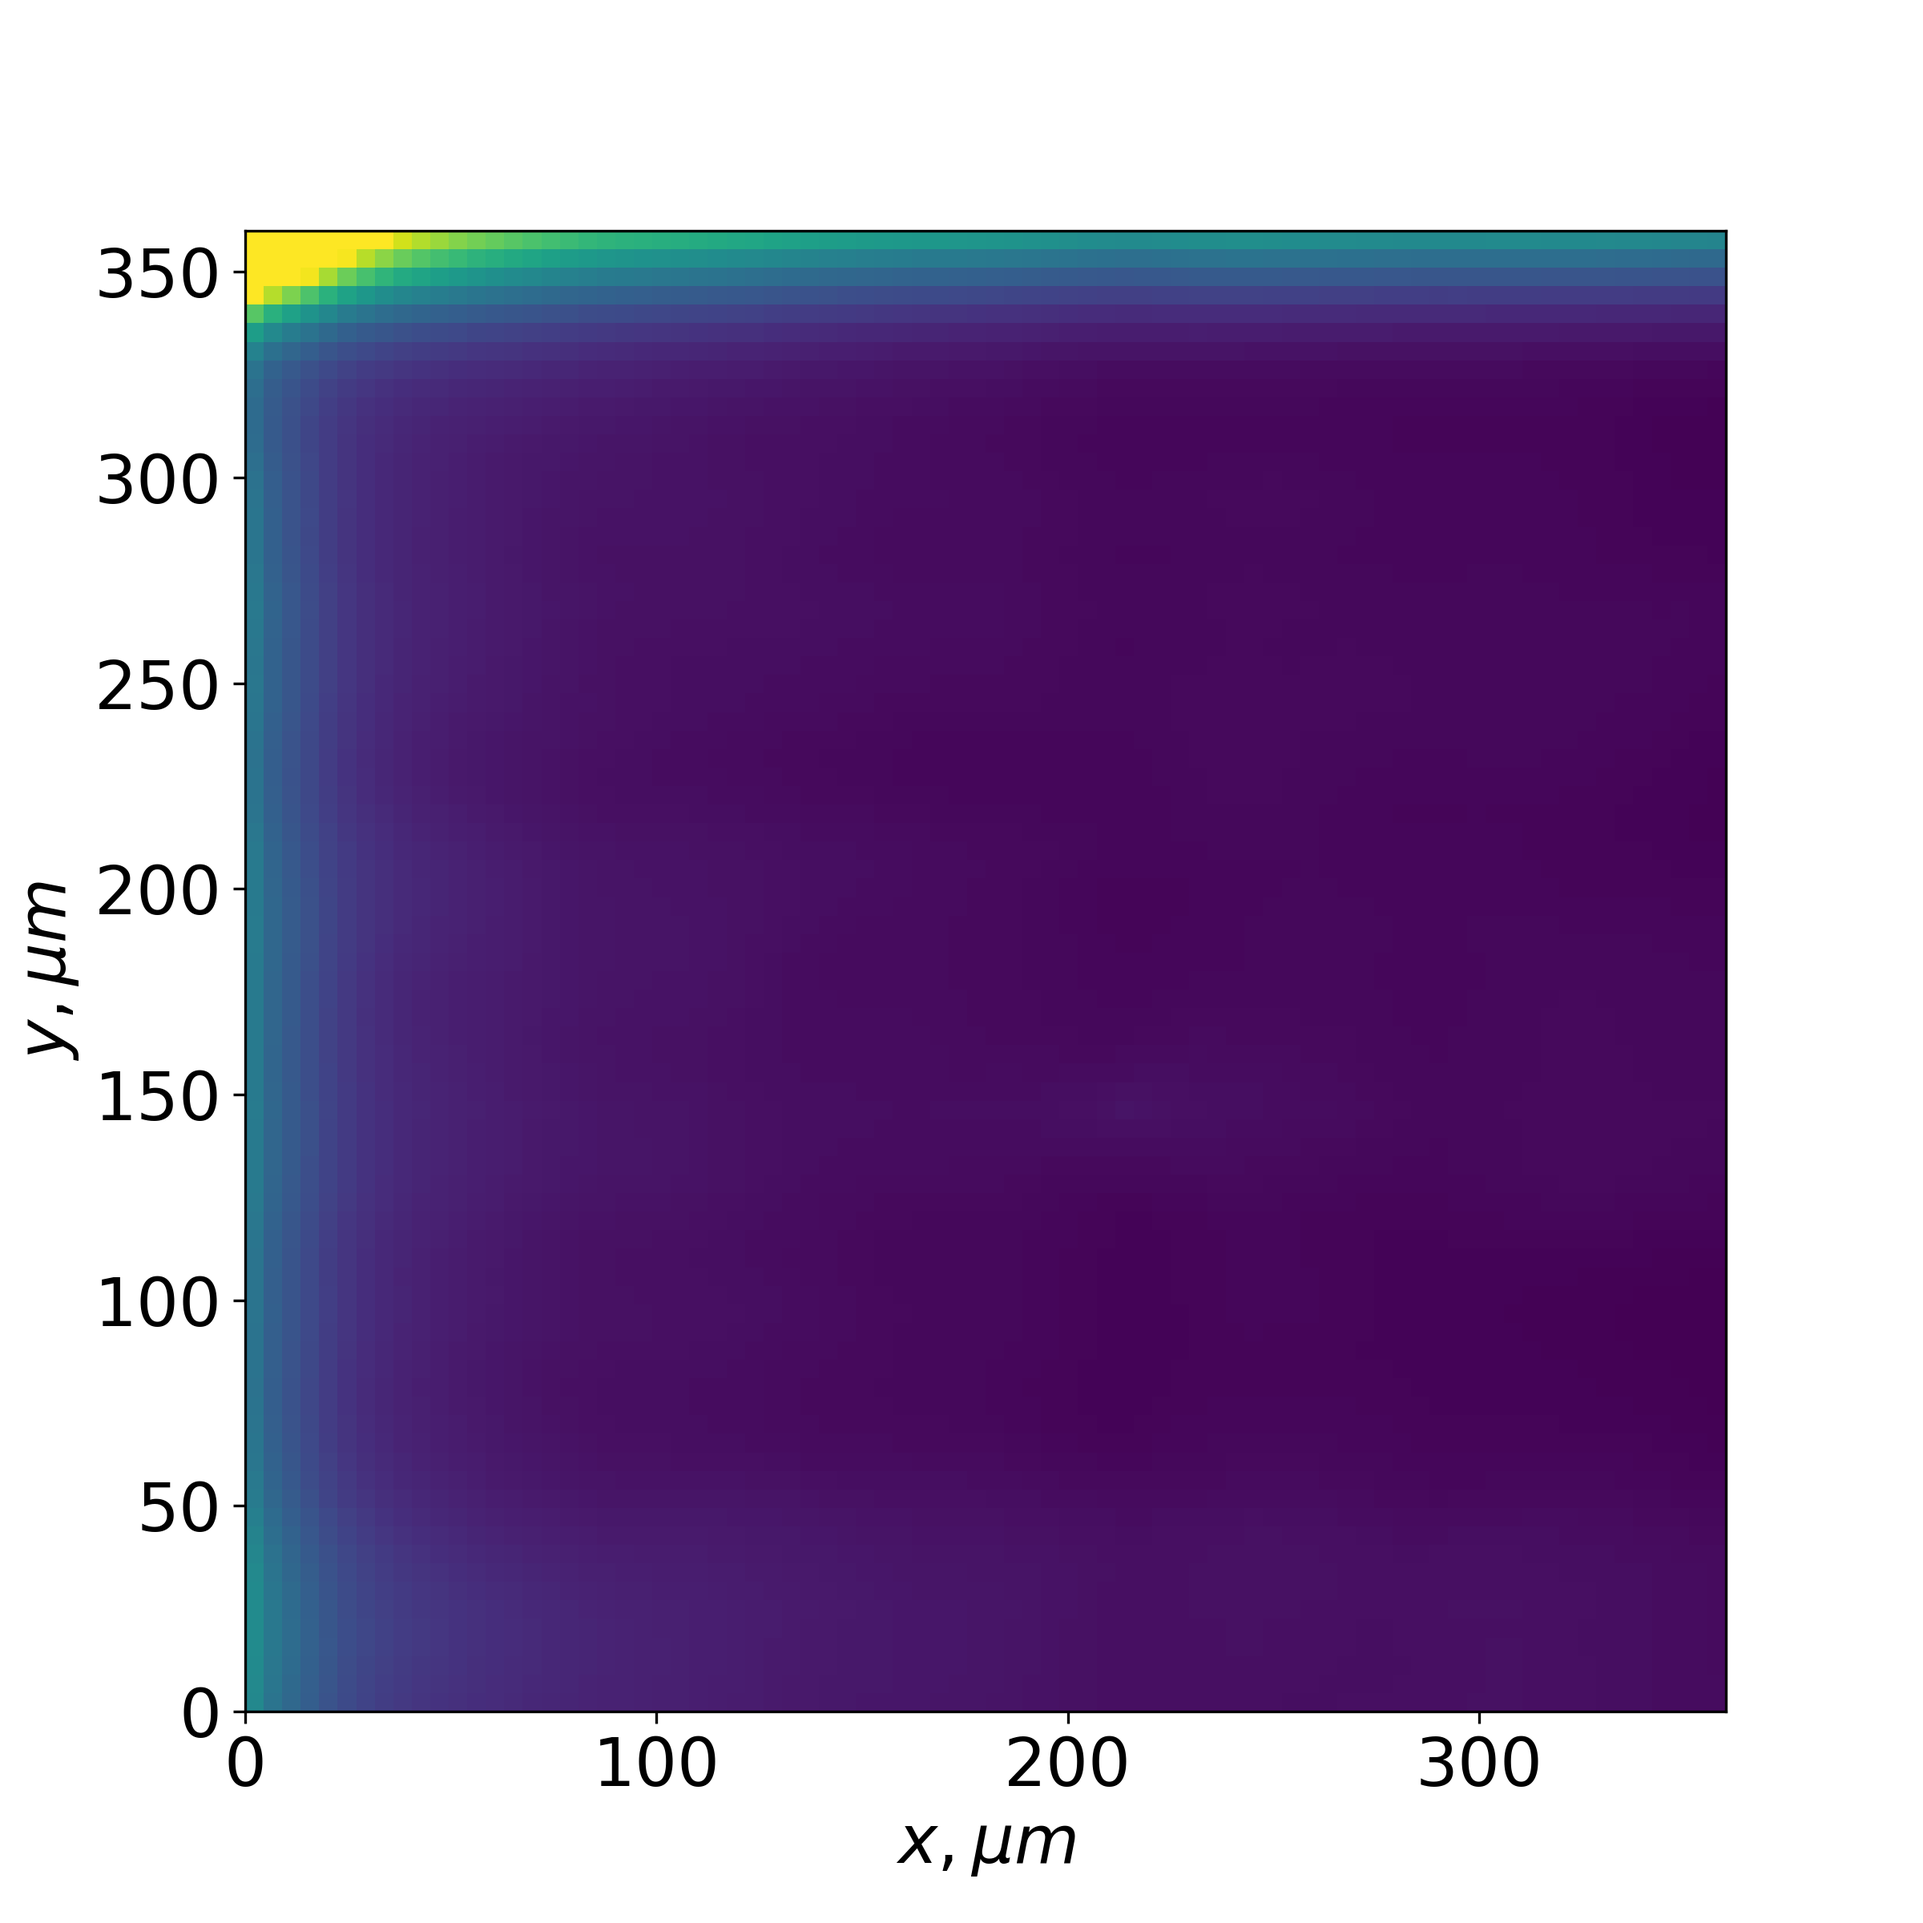
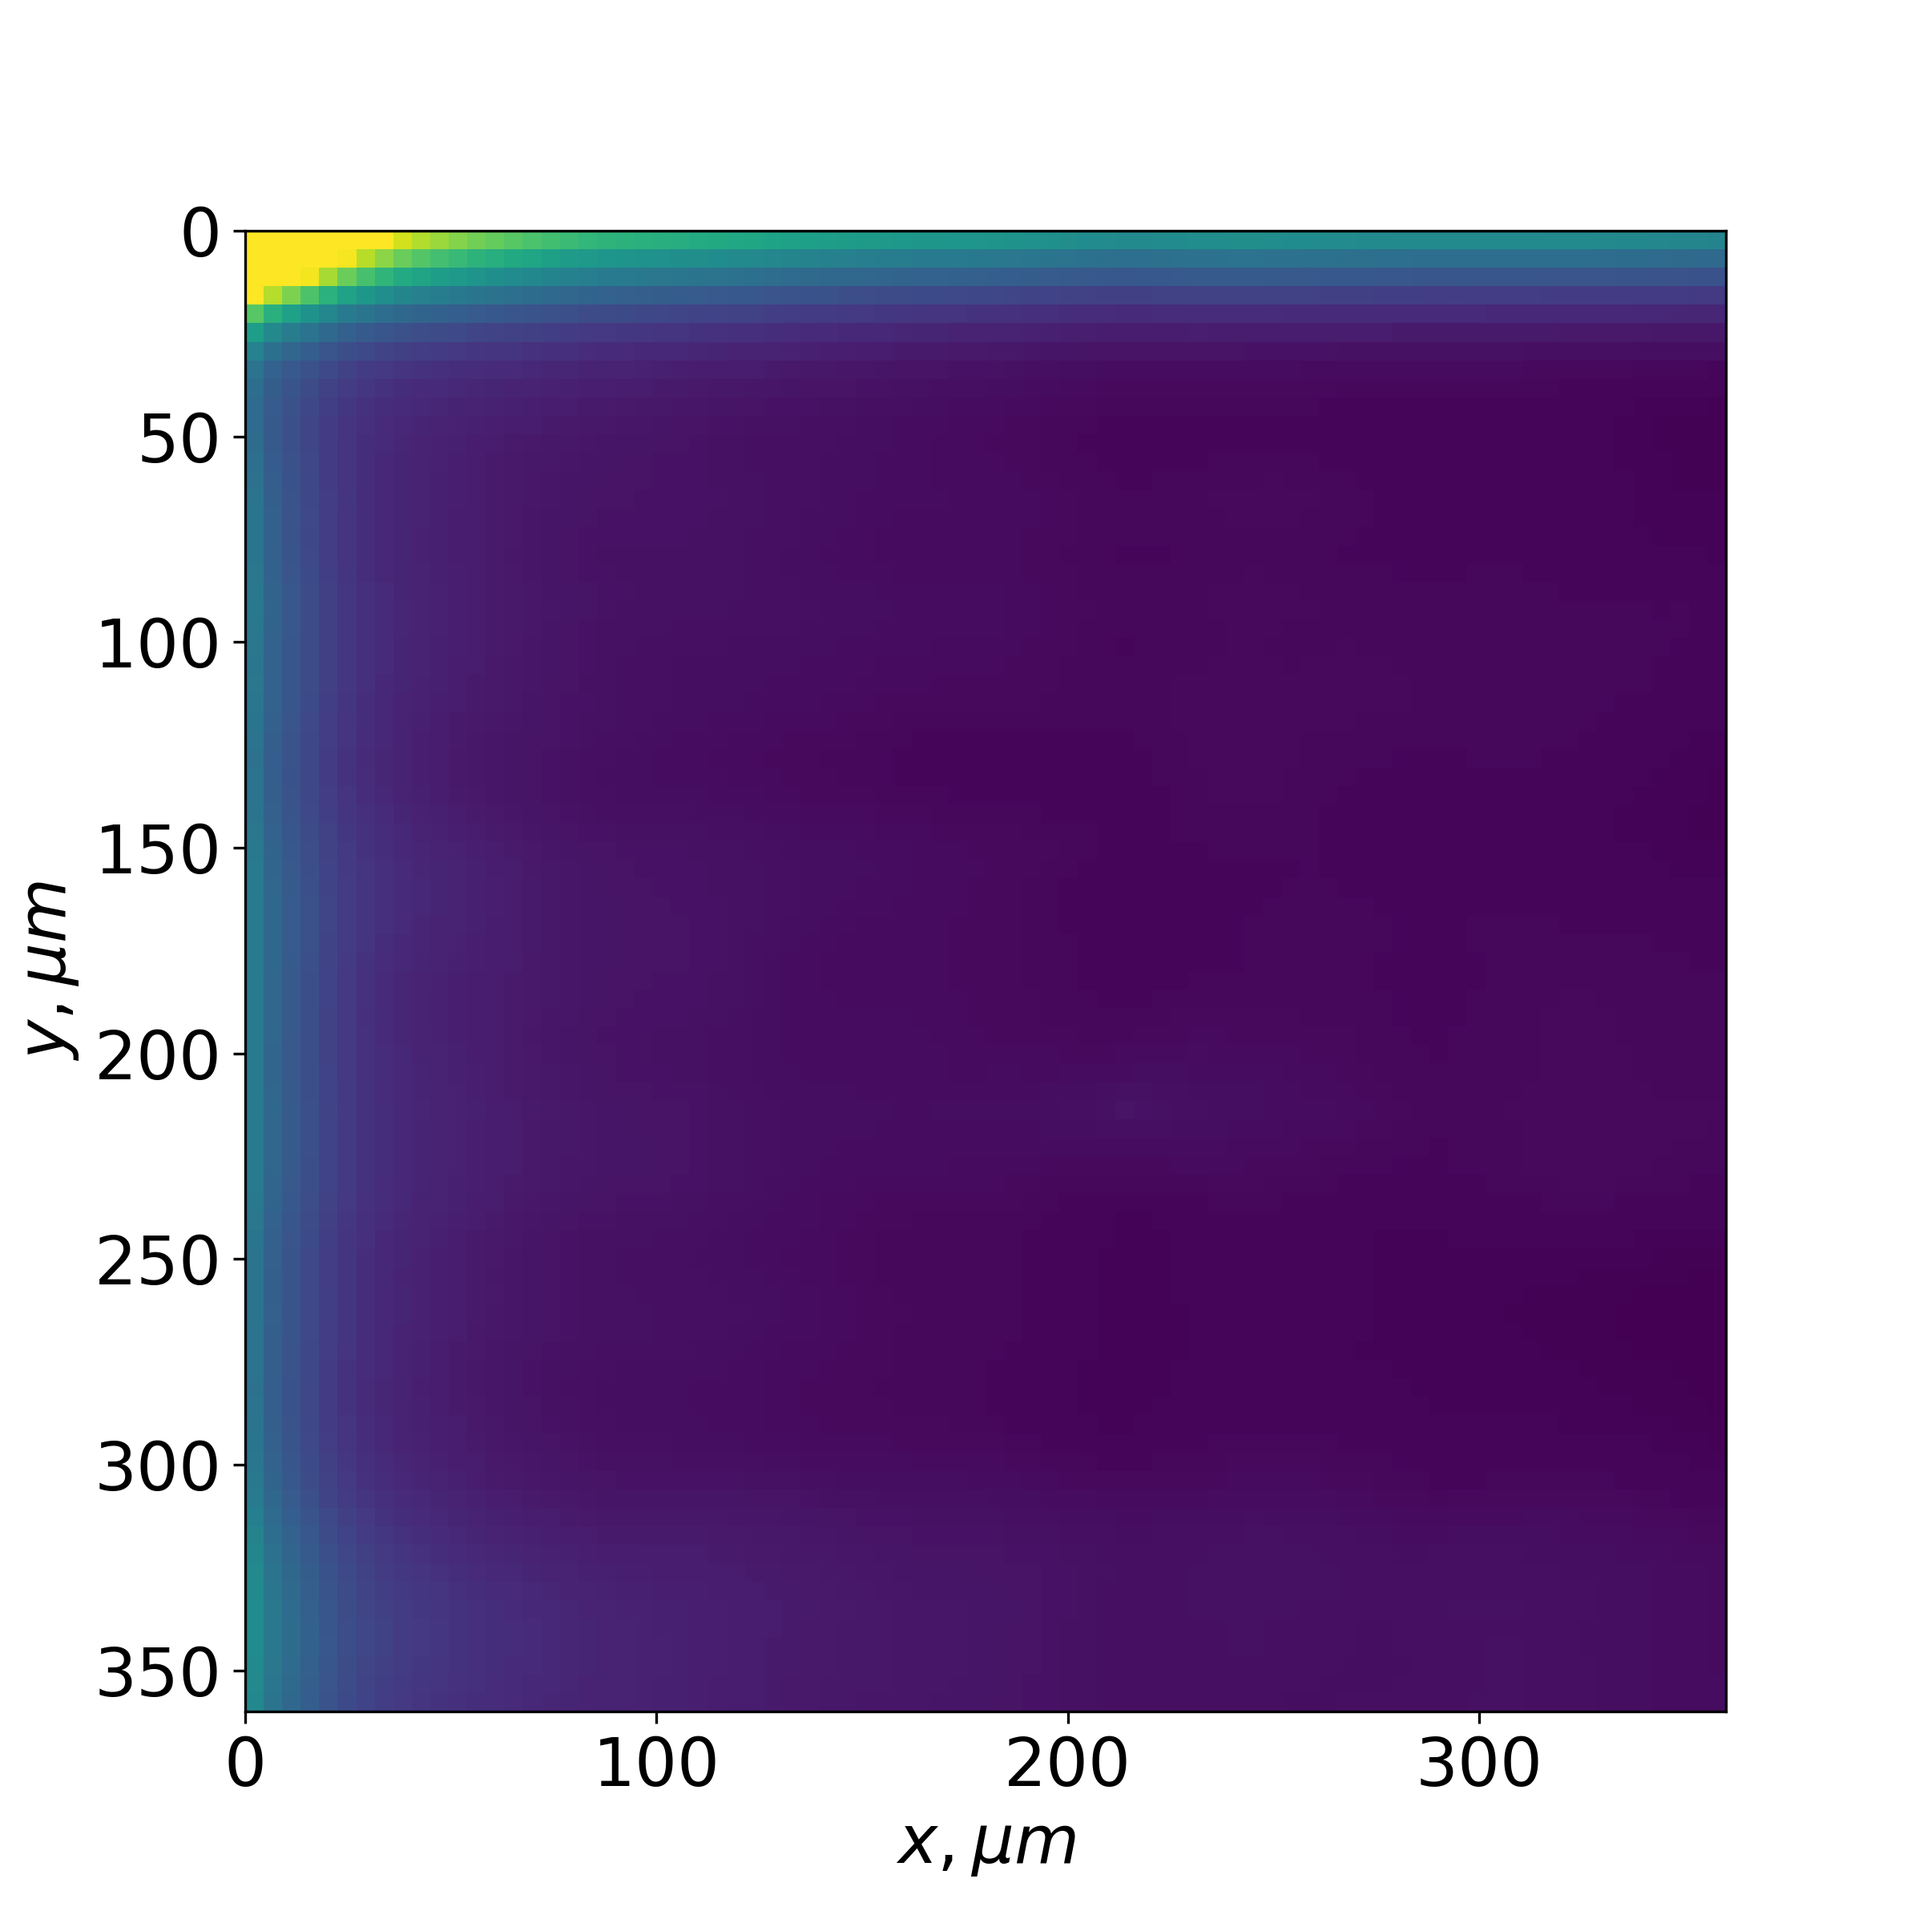
Fix images

diff --git a/data/heatmap.py b/data/heatmap.py
@@ -3,11 +3,11 @@
 import numpy as np
 import matplotlib.pyplot as plt
 
-data = np.load('shale-c3.npy')
+data = np.load('shale-s3.npy')
 
 plt.figure(figsize = (8, 8), dpi = 300)
 plt.rc('font', size = 20)
-plt.imshow(np.where(data < 0.1, data, 0.1), extent = (0, 160*2.25, 0, 160*2.25))
+plt.imshow(np.where(data < 0.1, data, 0.1), extent = (0, 160*2.25, 160*2.25, 0))
 plt.xlabel(r'$x, \mu m$')
 plt.ylabel(r'$y, \mu m$')
-plt.savefig('../images/shale-c3.png')
+plt.savefig('../images/shale-s3.png')

diff --git a/paper.tex b/paper.tex
@@ -474,7 +474,7 @@ other and have a regular spacing about \textcolor{red}{$150 \mu m$}.
 \begin{figure*}[tp]
   \centering
   \subfigure[Shale]{
-    \includegraphics[width=0.45\linewidth]{images/shale-c3.png}
+    \includegraphics[width=0.45\linewidth]{images/shale-s3.png}
     \label{fig:shale-s3}}
   \hfill
   \subfigure[Soil]{
